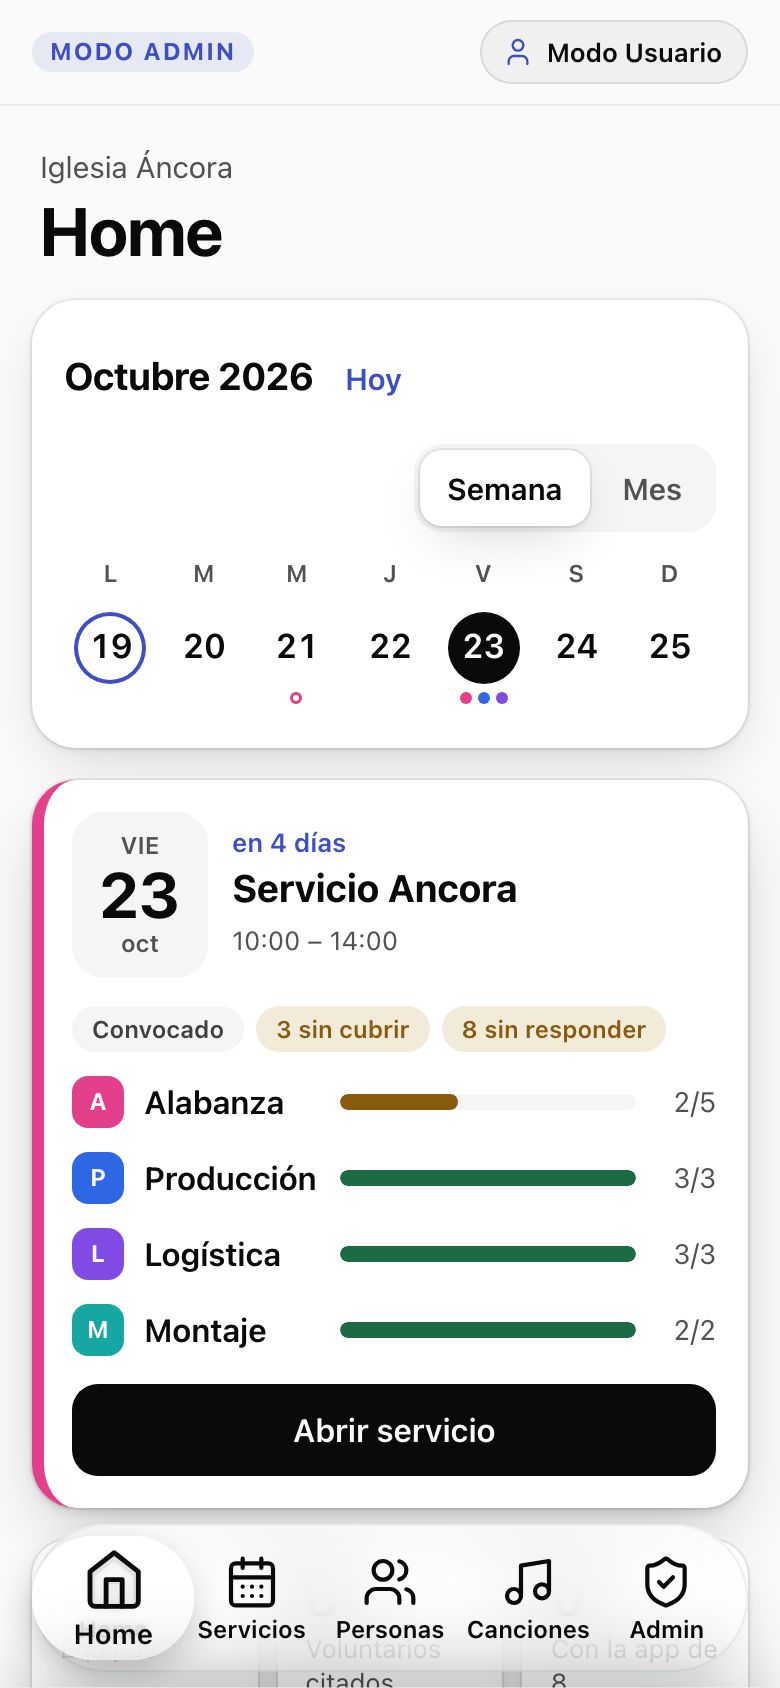
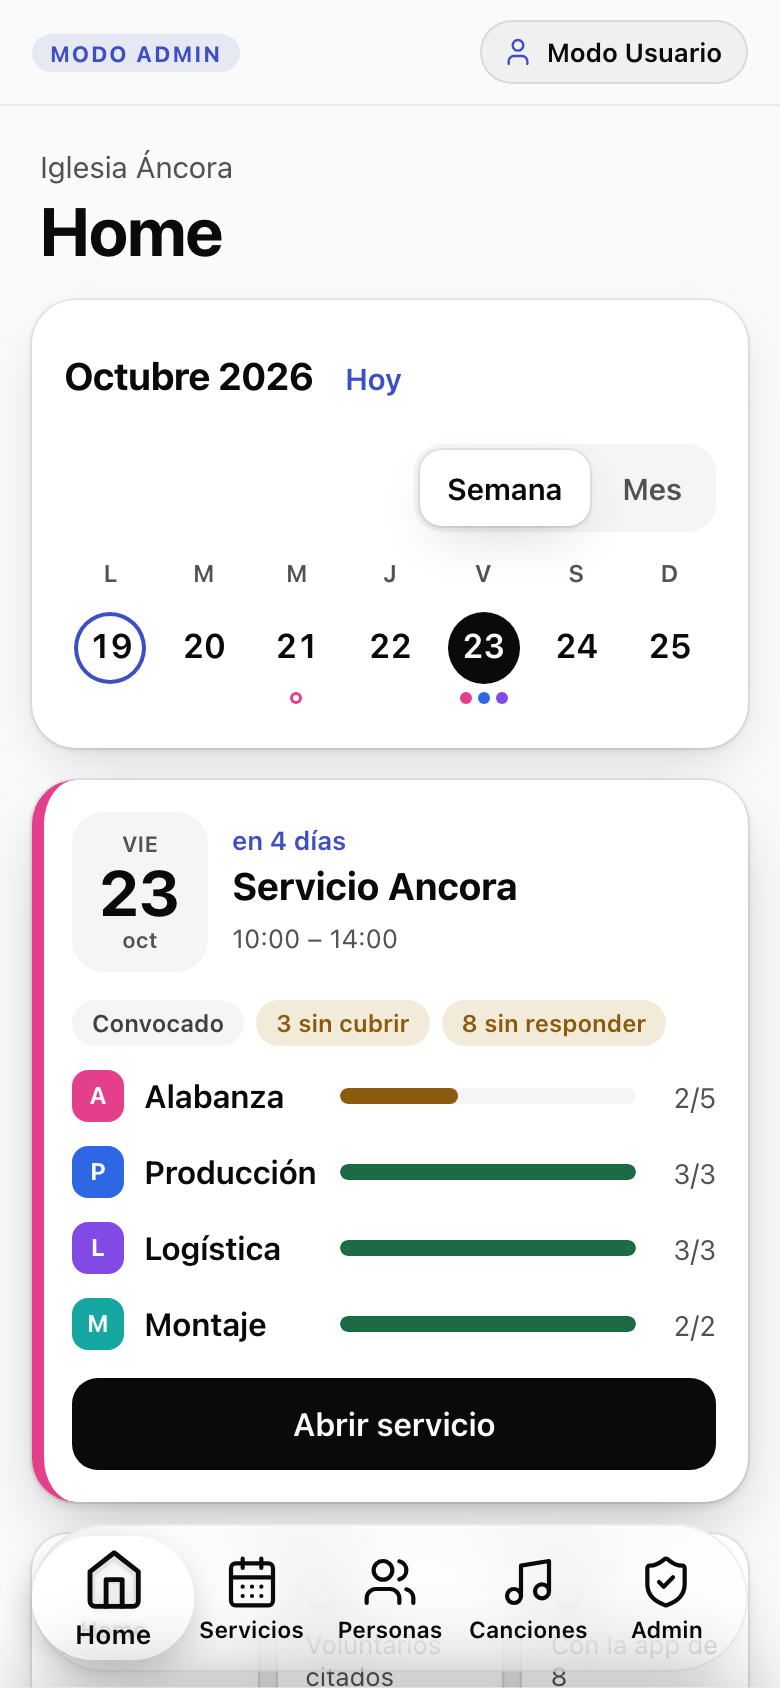
feat(movil): Estándar vuelve a ser exactamente main; Compacto nuevo con pisos relajados (solo teléfono)
- lib/escalaMovil.ts: sin data-ui el factor es 0.85 y ningún piso cambia (Estándar = main). data-ui=comodo da 1. data-ui=compacto da 0.8 con pisos de 11 px (etiquetas) y 14 px (lectura), pestañas de Personas/Equipos de 14 px, cabecera de 48 px, «⋯» visual de 20 px con área táctil de 44 px (pseudo-elemento), íconos de fila de 14 px y encabezado del calendario sin salto de fila.
- Los pisos se leen con var(--piso-…, <valor de main>); las medidas nuevas con var(--…, <valor de main>). Campos de texto en 16 px y barra inferior con su piso de 11 px, sin cambios.
- Estándar comparado con main: 0 elementos distintos en la medición de estilos (185 en Personas, 223 en Home) y capturas idénticas al píxel.
- Capturas y comparativas de 3 columnas (HOY, Estándar, Compacto) en docs/verificacion-rediseno/escala-prueba; medir-escala.js mide también alturas.

Solo vista previa; nada a main.

diff --git a/components/home/calendario-home.module.css b/components/home/calendario-home.module.css
@@ -1,11 +1,11 @@
 /* Calendario de los dos Home en teléfono (mockups Home-Usuario-A y Home-Admin-A): sección de radio 22; título del mes, «Hoy», selector Semana/Mes; días con anillo (hoy), relleno (elegido) y marcas debajo (punto = servicio, anillo = ensayo, raya = bloqueado).
    Medidas de diseño en px × --esc (0,85); el texto de 11 no baja de 11 px reales; zonas táctiles de 44. El color de equipo es identidad (el punto), el significado va también en la forma. Solo tokens --anc-*. */
 .raiz{ box-sizing:border-box; padding:calc(16px * var(--esc, 1)); border-radius:calc(22px * var(--esc, 1)); background:var(--anc-panel); box-shadow:var(--anc-e1); color:var(--anc-ink); }
-.cab{ display:flex; flex-wrap:wrap; row-gap:calc(4px * var(--esc, 1)); align-items:center; gap:calc(10px * var(--esc, 1)); margin-bottom:calc(12px * var(--esc, 1)); }
-.titulo{ margin:0; white-space:nowrap; font-size:max(var(--piso-lec, 0px), calc(19px * var(--esc, 1))); font-weight:700; letter-spacing:-.01em; line-height:1.2; }
+.cab{ display:flex; flex-wrap:var(--cab-wrap, wrap); row-gap:calc(4px * var(--esc, 1)); align-items:center; gap:calc(10px * var(--esc, 1)); margin-bottom:calc(12px * var(--esc, 1)); }
+.titulo{ margin:0; min-width:var(--cab-minw, auto); overflow:var(--cab-ov, visible); text-overflow:var(--cab-to, clip); white-space:nowrap; font-size:max(var(--piso-lec, 0px), calc(19px * var(--esc, 1))); font-weight:700; letter-spacing:-.01em; line-height:1.2; }
 .hoy{ min-height:max(44px, calc(46px * var(--esc, 1))); padding:0 calc(6px * var(--esc, 1)); border:0; background:none; color:var(--anc-modo-ink); font:inherit; font-size:max(var(--piso-lec, 11px), calc(15px * var(--esc, 1))); font-weight:600; cursor:pointer; -webkit-tap-highlight-color:transparent; }
-.vista{ margin-left:auto; display:inline-flex; gap:calc(2px * var(--esc, 1)); padding:calc(3px * var(--esc, 1)); border-radius:calc(14px * var(--esc, 1)); background:var(--anc-sunk); }
-.vista button{ min-height:max(36px, calc(38px * var(--esc, 1))); padding:0 calc(14px * var(--esc, 1)); border:0; border-radius:calc(11px * var(--esc, 1)); background:none; color:var(--anc-ink-3); font:inherit; font-size:max(var(--piso-lec, 11px), calc(15px * var(--esc, 1))); font-weight:600; cursor:pointer; -webkit-tap-highlight-color:transparent; }
+.vista{ flex:var(--cab-vista, 0 1 auto); margin-left:auto; display:inline-flex; gap:calc(2px * var(--esc, 1)); padding:calc(3px * var(--esc, 1)); border-radius:calc(14px * var(--esc, 1)); background:var(--anc-sunk); }
+.vista button{ min-height:max(36px, calc(38px * var(--esc, 1))); padding:0 var(--cal-pad, calc(14px * var(--esc, 1))); border:0; border-radius:calc(11px * var(--esc, 1)); background:none; color:var(--anc-ink-3); font:inherit; font-size:max(var(--piso-lec, 11px), calc(15px * var(--esc, 1))); font-weight:600; cursor:pointer; -webkit-tap-highlight-color:transparent; }
 .vista button[aria-pressed="true"]{ background:var(--anc-panel-solid); color:var(--anc-ink); box-shadow:var(--anc-e1); }
 .hoy:focus-visible, .vista button:focus-visible, .nav:focus-visible, .dia:focus-visible{ outline:2px solid var(--anc-ink); outline-offset:2px; }
 .nav{ min-width:max(44px, calc(46px * var(--esc, 1))); min-height:max(44px, calc(46px * var(--esc, 1))); border:0; background:none; color:var(--anc-ink-2); font:inherit; font-size:calc(20px * var(--esc, 1)); cursor:pointer; }
@@ -25,4 +25,3 @@ button.celda{ cursor:pointer; -webkit-tap-highlight-color:transparent; }
 .neutro{ --anc-team-a:var(--anc-ink-3); }
 .leyenda{ display:flex; flex-wrap:wrap; gap:calc(14px * var(--esc, 1)); margin:calc(10px * var(--esc, 1)) 0 0; padding:0; list-style:none; font-size:max(var(--piso-etq, 11px), calc(12px * var(--esc, 1))); color:var(--anc-ink-3); }
 .leyenda li{ display:inline-flex; align-items:center; gap:calc(6px * var(--esc, 1)); }
-@media (max-width:768px){ .cab{ flex-wrap:nowrap; gap:calc(8px * var(--esc, 1)); } .titulo{ min-width:0; overflow:hidden; text-overflow:ellipsis; } .vista{ flex:none; } .vista button{ padding:0 calc(10px * var(--esc, 1)); } }

diff --git a/tests/e2e-menus/medir-escala.js b/tests/e2e-menus/medir-escala.js
@@ -1,10 +1,11 @@
 // Mide qué elementos de una pantalla SÍ siguen al factor --esc y cuáles no: carga la pantalla a 390 px, la mide con data-ui=comodo (1,00) y con data-ui=compacto (0,85) y compara elemento por elemento. Solo mide; no cambia nada.
-// Uso: ESC_JSON=tests/e2e-menus/escenarios/escala-prueba.json BASE=http://127.0.0.1:3168 SALIDA=/ruta/salida.json node tests/e2e-menus/medir-escala.js [filtro-de-id]
+// UIS="" mide sin data-ui (lo de siempre), UIS=comodo,compacto (por defecto) compara los dos. Uso: ESC_JSON=tests/e2e-menus/escenarios/escala-prueba.json BASE=http://127.0.0.1:3168 SALIDA=/ruta/salida.json node tests/e2e-menus/medir-escala.js [filtro-de-id]
 const fs = require('fs'), { lanzar, sleep } = require('./cdp.js')
 const MOCKS = { inv5: require('./inv5-mock.js'), home: require('./home-mock.js'), portal: require('./portal-mock.js'), homeadmin: require('./homeadmin-mock.js') }
-const B = process.env.BASE || 'http://127.0.0.1:3168', FILTRO = process.argv[2] || ''
+const UIS = (process.env.UIS === undefined ? 'comodo,compacto' : process.env.UIS).split(','), B = process.env.BASE || 'http://127.0.0.1:3168', FILTRO = process.argv[2] || ''
 const ESC = JSON.parse(fs.readFileSync(process.env.ESC_JSON, 'utf8')).filter(e => e.ui === 'comodo').map(e => ({ mock: 'inv5', ...e })).filter(e => !FILTRO || e.id.includes(FILTRO))
 const MEDIR = `(()=>{const px=v=>parseFloat(v)||0;return JSON.stringify([...document.body.querySelectorAll('*')].map((e,i)=>{const r=e.getBoundingClientRect();if(r.width<1||r.height<1||/^(SCRIPT|STYLE|NOSCRIPT|PATH|CIRCLE|RECT|LINE|G|TSPAN)$/i.test(e.tagName))return null;const s=getComputedStyle(e);const tx=[...e.childNodes].some(n=>n.nodeType===3&&n.nodeValue.trim());return {i,tag:e.tagName.toLowerCase(),cl:(e.getAttribute('class')||'').toString().split(' ')[0].slice(0,40),txt:tx?e.textContent.trim().slice(0,24):'',w:r.width,h:r.height,fs:px(s.fontSize),pt:px(s.paddingTop),pl:px(s.paddingLeft),gap:px(s.rowGap),rad:px(s.borderTopLeftRadius),bg:s.backgroundColor!=='rgba(0, 0, 0, 0)',sh:s.boxShadow!=='none',lh:px(s.lineHeight)}}).filter(Boolean))})()`
+const ALTO = `(()=>{let m=0;for(const e of document.body.querySelectorAll('*')){const o=getComputedStyle(e).overflowY;if((o==='auto'||o==='scroll')&&e.scrollHeight>e.clientHeight+2)m=Math.max(m,e.scrollHeight)}return JSON.stringify({documento:document.documentElement.scrollHeight,contenedorConScroll:m})})()`
 ;(async () => {
   const salida = {}
   for (const grupo of ['inv5', 'home', 'portal', 'homeadmin']) {
@@ -16,9 +17,9 @@ const MEDIR = `(()=>{const px=v=>parseFloat(v)||0;return JSON.stringify([...docu
       await ev(`localStorage.clear(); sessionStorage.clear(); localStorage.setItem('__rol','admin')`); await send('Emulation.setDeviceMetricsOverride', { width: 390, height: 844, deviceScaleFactor: 2, mobile: true }); await send('Page.navigate', { url: B + e.ruta })
       for (const p of e.pasos || []) { const [k, ...r] = p.split(':'), v = r.join(':'); if (k === 'e') await sleep(+v); else if (k === 'j' && !/dataset\.ui/.test(v)) { await ev(v).catch(() => {}); await sleep(500) } }
       const r = {}
-      for (const ui of ['comodo', 'compacto']) { await ev(`document.documentElement.dataset.ui=${JSON.stringify(ui)}`); await sleep(600); r[ui] = JSON.parse(await ev(MEDIR)) }
-      salida[e.id.replace('-comodo', '')] = { comodo: r.comodo, compacto: r.compacto }
-      console.log(e.id, r.comodo.length, r.compacto.length)
+      for (const ui of UIS) { if (ui) await ev(`document.documentElement.dataset.ui=${JSON.stringify(ui)}`); await sleep(600); r[ui || 'sin'] = JSON.parse(await ev(MEDIR)); r['alto-' + (ui || 'sin')] = JSON.parse(await ev(ALTO)) }
+      salida[e.id.replace('-comodo', '')] = r
+      console.log(e.id, Object.entries(r).map(([k, v]) => k + ':' + (v.length ?? JSON.stringify(v))).join(' '))
     }
     await c.cerrar()
   }

diff --git a/tests/portal/menu-admin.test.js b/tests/portal/menu-admin.test.js
@@ -16,8 +16,8 @@ correr(async () => {
     assert.deepEqual(f('equipos').destino, { url: '/admin?tab=personas&gestion=equipos' }); assert.deepEqual(f('historial').destino, { url: '/admin?tab=setlist&historial=1' }); assert.equal(f('admins').detalle, 'Solo el propietario')
     for (const fuera of [/convocatoria/i, /ajustes/i, /sincroniz/i, /respaldo/i, /estad[ií]stic/i]) assert.ok(!filasDeAdmin({ esOwner: true }).some(x => fuera.test(x.key + x.label)), 'fuera de la primera versión: ' + fuera) })
   await prueba('iniciales de la organización para la tarjeta: «Iglesia Áncora» → «IA»', async () => { assert.equal(inicialesDeOrg('Iglesia Áncora'), 'IA'); assert.equal(inicialesDeOrg('Áncora'), 'A'); assert.equal(inicialesDeOrg('  '), '?'); assert.equal(inicialesDeOrg('una iglesia muy grande'), 'UI') })
-  await prueba('la escala compartida da el mismo css para el portal, /admin y /home (prueba de escala: tres tamaños y pisos de texto, solo en teléfono)', async () => {
-    const antes = `:root{--esc:1;--piso-etq:0px;--piso-lec:0px}@media (max-width:768px){:root{--esc:.92;--piso-etq:12px;--piso-lec:15px}:root[data-ui=comodo]{--esc:1}:root[data-ui=estandar]{--esc:.92}:root[data-ui=compacto]{--esc:.85}}
+  await prueba('la escala compartida da el mismo css para el portal, /admin y /home (sin data-ui vale lo de siempre; Cómodo y Compacto solo en teléfono)', async () => {
+    const antes = `:root{--esc:1}@media (max-width:768px){:root{--esc:.85}:root[data-ui=comodo]{--esc:1}:root[data-ui=compacto]{--esc:.8;--piso-etq:11px;--piso-lec:14px;--pest-fs:14px;--cab-pad:8px;--mas-t:20px;--ico-fila:14px;--cab-wrap:nowrap;--cab-minw:0;--cab-ov:hidden;--cab-to:ellipsis;--cab-vista:none;--cal-pad:calc(10px * .8)}:root[data-ui=compacto] .anc-rowMore{position:relative;width:var(--mas-t);height:var(--mas-t);flex:0 0 var(--mas-t)}:root[data-ui=compacto] .anc-rowMore::after{content:'';position:absolute;inset:calc((var(--mas-t) - 44px) / 2)}:root[data-ui=compacto] .anc-rowMore svg{width:var(--ico-fila);height:var(--ico-fila)}}
 :root{font-size:calc(100% * var(--esc));--anc-r:calc(var(--r) * var(--esc));--anc-r-s:calc(var(--r-s) * var(--esc));--anc-r-panel:calc(var(--r-panel) * var(--esc))}
 .portal-root :is(input:not([type=checkbox]):not([type=radio]):not([type=range]), textarea, select){font-size:16px}`
     assert.equal(cssEscala('.portal-root'), antes) })

diff --git a/tests/portal/escala.test.js b/tests/portal/escala.test.js
@@ -34,10 +34,10 @@ t('las pantallas reconstruidas en rem (Inicio, pantallas de acceso, PortalApp) n
     for (const m of txt.matchAll(/(?<![\w.-])(\d*\.?\d+)px/g)) if (parseFloat(m[1]) > 2) mal.push(`${f}: ${m[0]}`)
   }
   assert.deepEqual(mal, [], '\n' + mal.join('\n')) })
-t('la escala compartida (lib/escalaMovil.ts, usada por los layouts del portal, /admin y /home) define --esc: 0.92 (Estándar, por defecto), 1 y 0.85 por data-ui en teléfono y 1 en escritorio, sin zoom ni transform', () => {
+t('la escala compartida (lib/escalaMovil.ts, usada por los layouts del portal, /admin y /home) define --esc: 0.85 en teléfono (Estándar = el de siempre, sin atributo), 1 (data-ui=comodo) y 0.8 con pisos relajados (data-ui=compacto), y 1 en escritorio, sin zoom ni transform', () => {
   const l = fs.readFileSync(path.join(RAIZ, 'lib', 'escalaMovil.ts'), 'utf8')
   for (const d of ['portal', 'admin', 'home']) assert.match(fs.readFileSync(path.join(RAIZ, 'app', d, 'layout.tsx'), 'utf8'), /EscalaMovil/, 'el layout de ' + d)
-  assert.match(l, /--esc:1/); assert.match(l, /max-width:768px\)\{:root\{--esc:\.92;--piso-etq:12px;--piso-lec:15px\}:root\[data-ui=comodo\]\{--esc:1\}:root\[data-ui=estandar\]\{--esc:\.92\}:root\[data-ui=compacto\]\{--esc:\.85\}/); assert.match(l, /font-size:calc\(100% \* var\(--esc\)\)/); assert.ok(!/\bzoom\s*:/.test(l) && !/transform\s*:/.test(l)) })
+  assert.match(l, /--esc:1/); assert.match(l, /max-width:768px\)\{:root\{--esc:\.85\}:root\[data-ui=comodo\]\{--esc:1\}:root\[data-ui=compacto\]\{--esc:\.8;--piso-etq:11px;--piso-lec:14px;--pest-fs:14px;--cab-pad:8px;--mas-t:20px;--ico-fila:14px;--cab-wrap:nowrap;--cab-minw:0;--cab-ov:hidden;--cab-to:ellipsis;--cab-vista:none;--cal-pad:calc\(10px \* \.8\)\}/); assert.match(l, /font-size:calc\(100% \* var\(--esc\)\)/); assert.ok(!/\bzoom\s*:/.test(l) && !/transform\s*:/.test(l)) })
 t('la letra y los acordes no se escalan: --anc-letra-size divide por --esc (en el portal y en la hoja compartida)', () => {
   for (const f of ['app/portal/_components/CancionPortal.tsx', 'components/canciones/LyricSheet.tsx']) assert.match(fs.readFileSync(path.join(RAIZ, f), 'utf8'), /--anc-letra-size'?: `calc\(\$\{[^}]+\}rem \/ var\(--esc, 1\)\)`/, f) })
 console.log(`${n} comprobaciones OK`)

diff --git a/lib/escalaMovil.ts b/lib/escalaMovil.ts
@@ -1,8 +1,8 @@
 // La escala del teléfono (punto 54; extendida a /admin y /home en la fase 2a): `--esc` es el factor de tamaño de TODO en pantallas ≤ 768 px (0.85) y 1 en escritorio. No es `zoom` ni `transform`: es el
 // tamaño de letra de la raíz, así que las medidas en `rem` se escalan solas. Los campos de texto de la zona indicada quedan en 16 px (en iOS, menos que eso hace zoom al enfocar).
-// PARA CAMBIAR EL FACTOR: el 0.85 de abajo (vale para el portal y la administración a la vez).
+// PARA CAMBIAR EL FACTOR: el 0.85 de abajo (vale para el portal y la administración a la vez). Prueba de tamaños (solo teléfono, por `data-ui` en <html>): sin atributo = Estándar = el valor de siempre (0.85, sin ningún cambio); `comodo` = 1; `compacto` = 0.8 con pisos relajados (11 px etiquetas, 14 px lectura) y las medidas fijas de abajo. Los pisos se leen con var(--piso-…, <valor de siempre>), así que sin `data-ui` nada cambia.
 export function cssEscala(selectorCampos: string): string {
-  return `:root{--esc:1;--piso-etq:0px;--piso-lec:0px}@media (max-width:768px){:root{--esc:.92;--piso-etq:12px;--piso-lec:15px}:root[data-ui=comodo]{--esc:1}:root[data-ui=estandar]{--esc:.92}:root[data-ui=compacto]{--esc:.85}}
+  return `:root{--esc:1}@media (max-width:768px){:root{--esc:.85}:root[data-ui=comodo]{--esc:1}:root[data-ui=compacto]{--esc:.8;--piso-etq:11px;--piso-lec:14px;--pest-fs:14px;--cab-pad:8px;--mas-t:20px;--ico-fila:14px;--cab-wrap:nowrap;--cab-minw:0;--cab-ov:hidden;--cab-to:ellipsis;--cab-vista:none;--cal-pad:calc(10px * .8)}:root[data-ui=compacto] .anc-rowMore{position:relative;width:var(--mas-t);height:var(--mas-t);flex:0 0 var(--mas-t)}:root[data-ui=compacto] .anc-rowMore::after{content:'';position:absolute;inset:calc((var(--mas-t) - 44px) / 2)}:root[data-ui=compacto] .anc-rowMore svg{width:var(--ico-fila);height:var(--ico-fila)}}
 :root{font-size:calc(100% * var(--esc));--anc-r:calc(var(--r) * var(--esc));--anc-r-s:calc(var(--r-s) * var(--esc));--anc-r-panel:calc(var(--r-panel) * var(--esc))}
 ${selectorCampos} :is(input:not([type=checkbox]):not([type=radio]):not([type=range]), textarea, select){font-size:16px}`
 }

diff --git a/tests/portal/personas-telefono-ef.test.js b/tests/portal/personas-telefono-ef.test.js
@@ -7,7 +7,7 @@ correr(async () => {
   await prueba('PestanasTexto: tablist con tabs y aria-selected, un solo tab en el orden de Tab, flechas que cambian de pestaña; 16 px, 22 px entre pestañas, subrayado de 2 px (radio 1), activa 700 con --anc-ink e inactiva 600 con --anc-pestana-off, sin fondo ni borde, 44 de alto', async () => {
     const x = plano(leer('components/personas/PestanasTexto.tsx')), c = plano(leer('components/personas/pestanas-texto.module.css'))
     assert.ok(/role="tablist"/.test(x) && /role="tab"/.test(x) && /aria-selected=\{valor === p\.valor\}/.test(x) && /tabIndex=\{i === indice \? 0 : -1\}/.test(x)); assert.ok(/ArrowRight/.test(x) && /ArrowLeft/.test(x) && /onCambio\(pestanas\[i\]\.valor\)/.test(x))
-    assert.ok(/\.grupo\{[^}]*gap:22px[^}]*inset 0 -1px 0 var\(--anc-rule\)/.test(c), 'hueco de 22 y línea base de 1 px tenue'); assert.ok(/\.pestana\{[^}]*min-height:44px[^}]*border:0; background:none[^}]*color:var\(--anc-pestana-off\)[^}]*font-size:16px; font-weight:600/.test(c))
+    assert.ok(/\.grupo\{[^}]*gap:22px[^}]*inset 0 -1px 0 var\(--anc-rule\)/.test(c), 'hueco de 22 y línea base de 1 px tenue'); assert.ok(/\.pestana\{[^}]*min-height:44px[^}]*border:0; background:none[^}]*color:var\(--anc-pestana-off\)[^}]*font-size:var\(--pest-fs, 16px\); font-weight:600/.test(c))
     assert.ok(/\.pestana\[aria-selected="true"\]\{ color:var\(--anc-ink\); font-weight:700; \}/.test(c)); assert.ok(/::after\{[^}]*height:2px; border-radius:1px/.test(c), 'subrayado de 2 px con radio 1 del ancho del texto')
     assert.ok(!/#[0-9a-fA-F]{3,8}\b/.test(c) && !/\brgba?\(/.test(c), 'solo tokens') })
   await prueba('PersonasPanel dibuja PestanasTexto solo en teléfono y conserva el Segmentado (mismo marcado) en escritorio y tablet; la lógica de cambio (setVistaElegida) es la misma', async () => {

diff --git a/components/personas/pestanas-texto.module.css b/components/personas/pestanas-texto.module.css
@@ -1,8 +1,8 @@
-/* Pestañas de texto de teléfono (Personas-E/F). Solo tokens --anc-*. Letra de 16 px reales; 22 px entre pestañas; 44 de alto táctil; subrayado de 2 px (radio 1) del ancho del texto; línea base de 1 px muy tenue bajo el grupo. */
+/* Pestañas de texto de teléfono (Personas-E/F). Solo tokens --anc-*. Letra de 16 px reales (14 px en el tamaño Compacto, que es la prueba de escala; los 16 px son solo para campos de texto); 22 px entre pestañas; 44 de alto táctil; subrayado de 2 px (radio 1) del ancho del texto; línea base de 1 px muy tenue bajo el grupo. */
 .grupo{ display:inline-flex; align-items:stretch; gap:22px; box-shadow:inset 0 -1px 0 var(--anc-rule); }
 .pestana{
   position:relative; box-sizing:border-box; min-height:44px; margin:0; padding:0; border:0; background:none; color:var(--anc-pestana-off);
-  font:inherit; font-size:16px; font-weight:600; cursor:pointer; -webkit-tap-highlight-color:transparent;
+  font:inherit; font-size:var(--pest-fs, 16px); font-weight:600; cursor:pointer; -webkit-tap-highlight-color:transparent;
 }
 .pestana[aria-selected="true"]{ color:var(--anc-ink); font-weight:700; }
 .texto{ position:relative; display:inline-block; padding:10px 0 8px; }

diff --git a/components/app.module.css b/components/app.module.css
@@ -414,7 +414,7 @@
    «Salir» y las iniciales: la navegación es el menú inferior y lo demás vive en su hoja «Más» (un líder que no es administrador no tiene menú: su tema y su sesión están en el Perfil del portal).
    El escritorio no cambia. (Va al final del archivo a propósito: tiene que ganar a las reglas de .mark, .orgPicker y .nav de arriba.) */
 @media (max-width:768px){
-  .top{ grid-template-columns:minmax(0,1fr) auto; column-gap:10px; padding:calc(10px + var(--safe-top, 0px)) calc(16px + var(--safe-right, 0px)) 10px calc(16px + var(--safe-left, 0px)); }
+  .top{ grid-template-columns:minmax(0,1fr) auto; column-gap:10px; padding:calc(var(--cab-pad, 10px) + var(--safe-top, 0px)) calc(16px + var(--safe-right, 0px)) var(--cab-pad, 10px) calc(16px + var(--safe-left, 0px)); }
   .nav{ display:none; }
   .mark, .orgPicker, .salir, .meAvatar, .temaTop{ display:none; }
   /* overflow-x:clip: lo que se pase del ancho de la pantalla se recorta DENTRO del contenido y no ensancha el documento (si lo ensanchara, el menú inferior y la hoja «Más», que van fijos, se medirían contra
